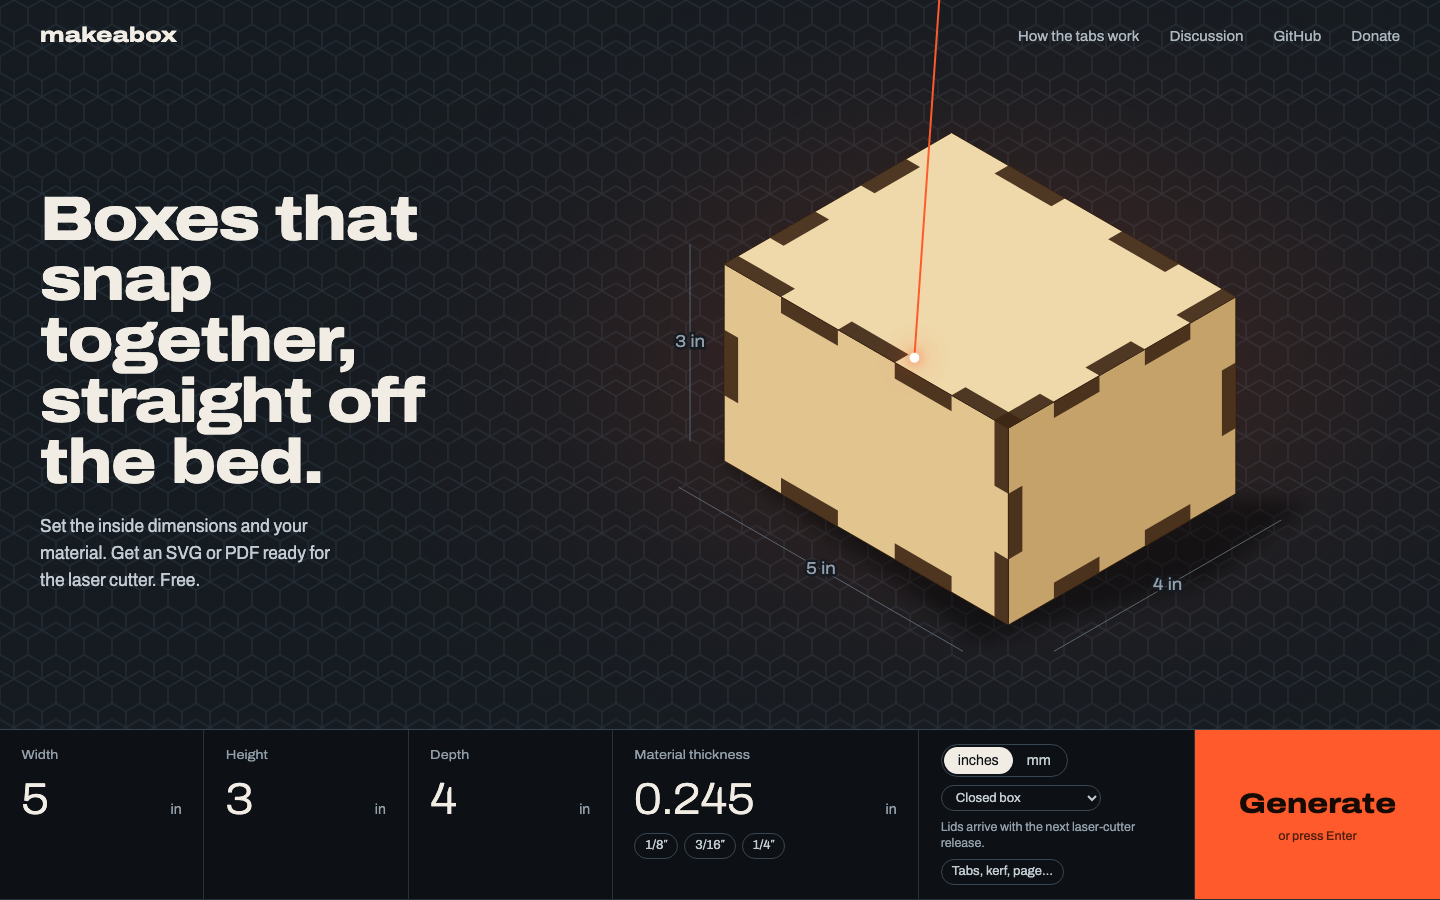
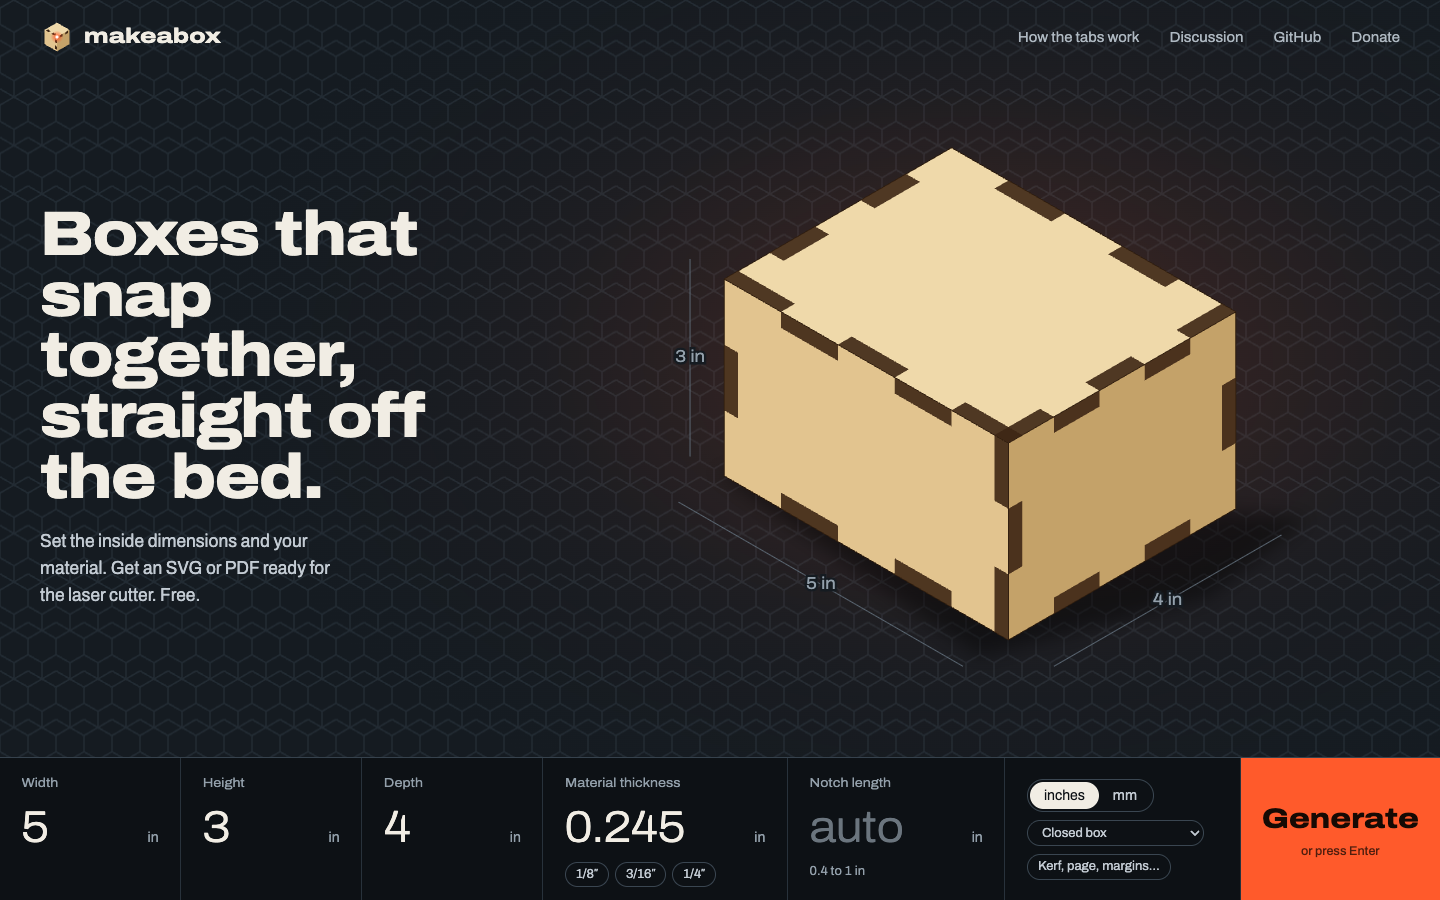
Put notch length on the form, with a range
The field moves out of the settings dialog. Blank stays automatic; a value must be between 10 mm (0.4 in) and a third of the shortest side, checked in the browser and in BoxRequest.

diff --git a/app/javascript/controllers/generator_controller.js b/app/javascript/controllers/generator_controller.js
@@ -10,7 +10,9 @@ const STOCK = {
   in: [["1/8″", 0.125], ["3/16″", 0.1875], ["1/4″", 0.25]],
   mm: [["3 mm", 3], ["4.5 mm", 4.5], ["6 mm", 6]]
 }
-const STEP = { in: { side: 0.25, thickness: 0.005 }, mm: { side: 5, thickness: 0.1 } }
+const STEP = { in: { side: 0.25, thickness: 0.005, notch: 0.05 }, mm: { side: 5, thickness: 0.1, notch: 1 } }
+// The narrowest tab worth cutting. The widest is a third of the shortest side.
+const NOTCH_MIN = { in: 0.4, mm: 10 }
 const TRACE_MS = 1500
 
 const clean = (number) => Number(number.toFixed(4))
@@ -20,7 +22,7 @@ const label = (key) => (key === "thickness" ? "Thickness" : key[0].toUpperCase()
 // The box form: keeps the preview in step with the fields, remembers the
 // settings in this browser, and runs the Generate dialog.
 export default class extends Controller {
-  static targets = ["preview", "form", "hint", "number", "unit", "chips", "units", "lid", "settings", "optional", "pageSize",
+  static targets = ["preview", "form", "hint", "number", "unit", "chips", "range", "units", "lid", "settings", "optional", "pageSize",
                     "go", "cut", "cutTitle", "cutMaterial", "drawing", "specs", "phase", "count", "bar", "download"]
   static values = { settings: Object, streamUrl: String, downloadUrl: String }
 
@@ -61,7 +63,31 @@ export default class extends Controller {
   problem() {
     for (const key of [...SIDES, "thickness"]) if (!(this.number(key) > 0)) return `${label(key)} needs a number above zero.`
     if (this.number("thickness") >= Math.min(...SIDES.map((key) => this.number(key)))) return "Thickness has to be smaller than the shortest side of the box."
+    if (this.notchProblem()) return `Notch length has to be between ${this.notchRange().join(" and ")} ${this.unit}, or blank to let makeabox choose.`
     return ""
+  }
+
+  // [narrowest, widest] tab, rounded down so that both ends are allowed.
+  notchRange() {
+    const digits = this.unit === "mm" ? 10 : 100
+    const widest = Math.floor((Math.min(...SIDES.map((key) => this.number(key))) / 3) * digits + 1e-6) / digits
+    return [Math.min(NOTCH_MIN[this.unit], widest), widest]
+  }
+
+  notchProblem() {
+    if (String(this.fields.notch ?? "").trim() === "") return false
+    const [narrowest, widest] = this.notchRange()
+    return !(this.number("notch") >= narrowest && this.number("notch") <= widest)
+  }
+
+  // Where a nudge or a drag starts from, and how far it may go.
+  start(key) {
+    return this.number(key) || (key === "notch" ? 3 * this.number("thickness") : 0)
+  }
+
+  clamp(key, value) {
+    const [low, high] = key === "notch" ? this.notchRange() : [this.step(key), Infinity]
+    return clean(Math.min(high, Math.max(low, value)))
   }
 
   // ── field events ──
@@ -86,19 +112,19 @@ export default class extends Controller {
     event.preventDefault()
     const key = event.target.closest("[data-key]").dataset.key
     const by = this.step(key) * (event.shiftKey ? 4 : 1) * (event.key === "ArrowUp" ? 1 : -1)
-    event.target.value = clean(Math.max(this.step(key), this.number(key) + by))
+    event.target.value = this.clamp(key, this.start(key) + by)
     this.refresh()
   }
 
   // Dragging a label left or right changes its number.
   scrub(event) {
     const label = event.currentTarget, key = label.closest("[data-key]").dataset.key, input = this.input(key)
-    const from = event.clientX, base = this.number(key)
+    const from = event.clientX, base = this.start(key)
     event.preventDefault()
     label.setPointerCapture(event.pointerId)
     this.hot = key
     const move = (drag) => {
-      input.value = clean(Math.max(this.step(key), base + Math.round((drag.clientX - from) / 6) * this.step(key)))
+      input.value = this.clamp(key, base + Math.round((drag.clientX - from) / 6) * this.step(key))
       this.refresh()
     }
     label.addEventListener("pointermove", move)
@@ -130,7 +156,7 @@ export default class extends Controller {
   }
 
   step(key) {
-    return STEP[this.unit][key === "thickness" ? "thickness" : "side"]
+    return STEP[this.unit][key in STEP[this.unit] ? key : "side"]
   }
 
   // ── dialogs ──
@@ -174,6 +200,8 @@ export default class extends Controller {
     })
     this.pageSizes(unit)
     this.numberTargets.forEach((input) => input.closest(".field").classList.toggle("bad", !(parseFloat(input.value) > 0)))
+    this.rangeTarget.textContent = this.notchRange()[1] > 0 ? `${this.notchRange().join(" to ")} ${unit}` : ""
+    this.rangeTarget.closest(".field").classList.toggle("bad", this.notchProblem())
 
     const problem = this.problem()
     this.hintTarget.textContent = problem
@@ -197,7 +225,7 @@ export default class extends Controller {
       notch: this.number("notch"), units: this.unit, lid: this.lidTarget.value, hot: this.hot
     })
     this.previewTarget.setAttribute("viewBox", viewBox)
-    this.previewTarget.classList.toggle("hot-thickness", this.hot === "thickness")
+    this.previewTarget.classList.toggle("hot-thickness", this.hot === "thickness" || this.hot === "notch")
     this.previewTarget.innerHTML = markup // numbers and fixed class names only, see iso_box.js
   }
 
@@ -260,7 +288,7 @@ export default class extends Controller {
     const tab = this.number("notch") ? `${this.number("notch")} ${unit}` : `auto, about ${clean(3 * this.number("thickness"))} ${unit}`
     this.cutTitleTarget.textContent = `${sides} ${unit} box`
     this.cutMaterialTarget.textContent = `${this.number("thickness")} ${unit} material`
-    const rows = [["Inside", `${sides} ${unit}`], ["Material", `${this.number("thickness")} ${unit}`], ["Tab width", tab],
+    const rows = [["Inside", `${sides} ${unit}`], ["Material", `${this.number("thickness")} ${unit}`], ["Notch length", tab],
                   ["Top", this.lidTarget.selectedOptions[0].textContent], ["Page", this.pageSizeTarget.value || "fits the box"]]
     this.specsTarget.replaceChildren(...rows.flatMap(([term, detail]) => {
       const dt = document.createElement("dt"), dd = document.createElement("dd")

diff --git a/app/assets/stylesheets/generator.css b/app/assets/stylesheets/generator.css
@@ -29,12 +29,12 @@
 .panel {
   position: relative; margin: 0;
   background: var(--panel); border-top: 1px solid var(--edge); border-bottom: 1px solid var(--rule);
-  display: grid; grid-template-columns: repeat(3, minmax(0, 1fr)) minmax(0, 1.5fr) minmax(0, 1.35fr) minmax(150px, 1.2fr);
+  display: grid; grid-template-columns: repeat(3, minmax(0, 1fr)) minmax(0, 1.35fr) minmax(0, 1.2fr) minmax(0, 1.3fr) minmax(140px, 1.1fr);
 }
 .hint { position: absolute; left: var(--gutter); bottom: calc(100% + 10px); margin: 0; font-size: 14px; color: var(--alarm); }
 
 .field { position: relative; padding: 16px clamp(12px, 1.5vw, 22px) 14px; border-right: 1px solid var(--rule); display: grid; gap: 10px; align-content: start; }
-.field > label { font-size: 13px; color: var(--mute); font-stretch: 110%; cursor: ew-resize; user-select: none; touch-action: none; display: flex; justify-content: space-between; gap: 8px; }
+.field > label { font-size: 13px; color: var(--mute); font-stretch: 110%; cursor: ew-resize; user-select: none; touch-action: none; display: flex; justify-content: space-between; gap: 8px; white-space: nowrap; overflow: hidden; }
 .field > label i { font-style: normal; opacity: 0; transition: opacity 0.15s; white-space: nowrap; }
 .field:hover > label i, .field:focus-within > label i { opacity: 0.7; }
 .num { display: flex; align-items: baseline; gap: 6px; }
@@ -44,6 +44,8 @@
   font-variant-numeric: tabular-nums; caret-color: var(--amber);
 }
 .num span { font-size: 14px; color: var(--mute); }
+.num input::placeholder { color: var(--mute); opacity: 0.7; }
+.range { font-size: 13px; color: var(--mute); font-variant-numeric: tabular-nums; }
 .field::after { content: ""; position: absolute; inset: auto 0 0 0; height: 3px; background: var(--amber); transform: scaleX(0); transform-origin: left; transition: transform 0.18s ease-out; }
 .field:focus-within::after { transform: scaleX(1); }
 .field:focus-within .num input { color: var(--amber); }
@@ -82,7 +84,9 @@
   .hero { grid-template-columns: 1fr; padding-top: 8px; }
   .stage { height: 44vh; }
   .panel { grid-template-columns: repeat(3, 1fr); }
-  .field.thickness, .side, .go { grid-column: span 3; border-top: 1px solid var(--rule); }
+  .field.thickness { grid-column: span 2; }
+  .side, .go { grid-column: span 3; }
+  .field.thickness, .field.notch, .side, .go { border-top: 1px solid var(--rule); }
   .side { grid-auto-flow: column; justify-content: start; align-items: center; gap: 10px 14px; grid-auto-flow: row; }
   .go { padding: 18px; }
   .hint { position: static; grid-column: span 3; padding: 8px var(--gutter) 0; }

diff --git a/cypress/e2e/generator.cy.js b/cypress/e2e/generator.cy.js
@@ -12,6 +12,7 @@ describe("making a box", () => {
 
     field("width").clear().type("8")
     cy.get(".stage svg .dim text").first().should("have.text", "8 in")
+    cy.scrollTo("top")
     cy.screenshot("home", { capture: "viewport" })
   })
 
@@ -45,14 +46,14 @@ describe("making a box", () => {
     field("depth").should("have.value", "190.5")
     cy.get('[name="box[units]"][value="mm"]').should("be.checked")
 
-    cy.contains("button", "Tabs, kerf, page").click()
+    cy.contains("button", "Kerf, page, margins").click()
     cy.contains("button", "Reset everything to defaults").click()
     field("depth").should("have.value", "4")
     cy.get('[name="box[units]"][value="in"]').should("be.checked")
   })
 
   it("offers the optional settings with the gem's defaults as placeholders", () => {
-    cy.contains("button", "Tabs, kerf, page").click()
+    cy.contains("button", "Kerf, page, margins").click()
     field("kerf").should("have.attr", "placeholder", "0.0024")
     field("page_size").find("option").should("have.length.greaterThan", 10)
     cy.screenshot("settings", { capture: "viewport" })
@@ -74,6 +75,23 @@ describe("making a box", () => {
     cy.contains("button", "Download SVG").click()
     cy.get("dialog.cut").should("not.have.attr", "open")
     cy.readFile("tmp/cypress/downloads/makeabox-5x3x4in-0.245t.svg").should("contain", "<svg")
+  })
+
+  it("keeps the notch length between 0.4 in and a third of the shortest side", () => {
+    cy.get(".field.notch .range").should("have.text", "0.4 to 1 in")
+    field("notch").type("2")
+    cy.get(".hint").should("contain", "Notch length has to be between 0.4 and 1 in")
+    cy.get(".go").should("be.disabled")
+
+    field("notch").clear().type("0.5")
+    cy.get(".hint").should("be.empty")
+    field("notch").type("{uparrow}{uparrow}{uparrow}{uparrow}{uparrow}{uparrow}{uparrow}{uparrow}{uparrow}{uparrow}{uparrow}{uparrow}")
+    field("notch").should("have.value", "1")
+
+    field("notch").clear().type("{uparrow}")
+    field("notch").should("have.value", "0.785")
+    cy.get(".go").click()
+    cy.contains("dialog.cut dd", "0.785 in")
   })
 
   it("cuts a lid that lifts off", () => {

diff --git a/spec/models/box_request_spec.rb b/spec/models/box_request_spec.rb
@@ -45,7 +45,7 @@ RSpec.describe BoxRequest do
     it 'rejects an optional setting that is not a number' do
       box = described_class.new(params.merge('notch' => 'wide', 'kerf' => '-1'))
       expect(box).not_to be_valid
-      expect(box.errors).to eq ['Tab width needs a number, or leave it blank.', 'Kerf needs a number, or leave it blank.']
+      expect(box.errors).to eq ['Notch length needs a number, or leave it blank.', 'Kerf needs a number, or leave it blank.']
     end
 
     it 'rejects a page size laser-cutter does not know' do
@@ -67,6 +67,34 @@ RSpec.describe BoxRequest do
         allow(described_class).to receive(:lids_supported?).and_return(true)
         expect(box).to be_valid
       end
+    end
+  end
+
+  describe 'notch length' do
+    # The shortest side is 3 in, so a notch may be 0.4 to 1 in.
+    { '0.4' => true, '1' => true, '0.39' => false, '1.01' => false }.each do |notch, allowed|
+      it "#{allowed ? 'accepts' : 'refuses'} #{notch} in" do
+        expect(described_class.new(params.merge('notch' => notch)).valid?).to be allowed
+      end
+    end
+
+    it 'says what the range is' do
+      box = described_class.new(params.merge('notch' => '2'))
+      box.valid?
+      expect(box.errors).to eq ['Notch length has to be between 0.4 and 1 in, or blank.']
+    end
+
+    it 'works in millimetres, from 10 mm' do
+      mm = { 'width' => '300', 'height' => '90', 'depth' => '120', 'thickness' => '3', 'units' => 'mm' }
+      expect(described_class.new(mm.merge('notch' => '30'))).to be_valid
+      expect(described_class.new(mm.merge('notch' => '9'))).not_to be_valid
+      expect(described_class.new(mm.merge('notch' => '31'))).not_to be_valid
+    end
+
+    it 'lets a small box go below the usual minimum' do
+      small = params.merge('width' => '1', 'height' => '0.9', 'depth' => '1', 'thickness' => '0.1')
+      expect(described_class.new(small.merge('notch' => '0.3'))).to be_valid
+      expect(described_class.new(small.merge('notch' => '0.4'))).not_to be_valid
     end
   end
 

diff --git a/app/models/box_request.rb b/app/models/box_request.rb
@@ -16,7 +16,11 @@ class BoxRequest
   # 'plain' is a rectangle that lies on top. The last two lift off.
   LIDS = %w[full back plain].freeze
 
-  LABELS = { notch: 'Tab width' }.freeze
+  LABELS = { notch: 'Notch length' }.freeze
+
+  # The narrowest tab worth cutting, per unit. The widest is a third of the
+  # shortest side, and wins when the box is too small for both.
+  NOTCH_MIN = { 'in' => 0.4, 'mm' => 10.0 }.freeze
 
   class << self
     # laser-cutter 2.0.0 draws only the full lid. Releases that draw the
@@ -52,6 +56,7 @@ class BoxRequest
     @errors = []
     check_dimensions
     check_optional
+    check_notch if errors.empty?
     check_choices
     errors.empty?
   end
@@ -129,6 +134,16 @@ class BoxRequest
 
       errors << "#{label(key)} needs a number, or leave it blank." unless number(key) && !number(key).negative?
     end
+  end
+
+  def check_notch
+    return if @params[:notch].blank?
+
+    widest = DIMENSIONS.first(3).map { |key| number(key) }.min / 3
+    narrowest = [NOTCH_MIN.fetch(units), widest].min
+    return if number(:notch).between?(narrowest - 1e-6, widest + 1e-6)
+
+    errors << "Notch length has to be between #{trim(narrowest)} and #{trim(widest)} #{units}, or blank."
   end
 
   def check_choices

diff --git a/.plans/001-dark-facelift/spec.md b/.plans/001-dark-facelift/spec.md
@@ -20,7 +20,7 @@ Someone lands on makeabox.io, types the inside dimensions of a box, watches it t
 | Decomposition           | Three specs, facelift first                                                                       |
 | Gem                     | laser-cutter 2.0.1 from GitHub, pinned to commit `bf2b831`, until 2.0.1 is on RubyGems; then back to `'~> 2.0'` |
 | Stack                   | Rails 8.1, Propshaft, importmap, Stimulus, hand-written CSS, HAML. No Node in the app             |
-| Visual direction        | "Lid down": dark honeycomb bed, a plywood box lit by the beam, controls in a strip at the bottom  |
+| Visual direction        | "Lid down": dark honeycomb bed, a plywood box, controls in a strip at the bottom (the beam over the preview was removed: it meant nothing) |
 | Form                    | Easy to fill in, and the preview redraws instantly                                                |
 | Flow                    | Generate opens a dialog with the SVG; Download SVG or Download PDF; the dialog then closes        |
 | Progress                | Real line counts from the gem, plus a laser tracing the drawing                                   |
@@ -46,6 +46,7 @@ Each of these is a judgement call that can be reversed.
 | Help                            | One "How the tabs work" section replaces three modals                                                      | Same content, no dialog to dismiss                                                                    |
 | Typeface                        | Archivo, variable, self-hosted (SIL OFL)                                                                   | One file covers every weight and width; no request to Google Fonts                                    |
 | giscus without its ids          | The page links to GitHub Discussions until `GISCUS_REPO_ID` and `GISCUS_CATEGORY_ID` are set               | The ids only exist once Discussions and the giscus app are enabled on the repository                  |
+| Notch length                    | On the main form, blank for automatic. When filled in it must be between 10 mm (0.4 in) and a third of the shortest side; on a box too small for both, the third wins | Konstantin set the range. It is sent to laser-cutter as `notch`, the gem's own name |
 | Thickness rule                  | Thickness must be smaller than the shortest side                                                           | The old app had no check; this is the loosest rule that still stops nonsense                          |
 | `config/secrets.yml`            | Still read, for `secret_key_base`, by `config/application.rb`                                              | Rails 8 ignores the file, and the deploy still ships it                                               |
 | Cypress                         | Added, with Node as a development-only dependency                                                          | The global rule asks for an end-to-end suite on every web app                                         |
